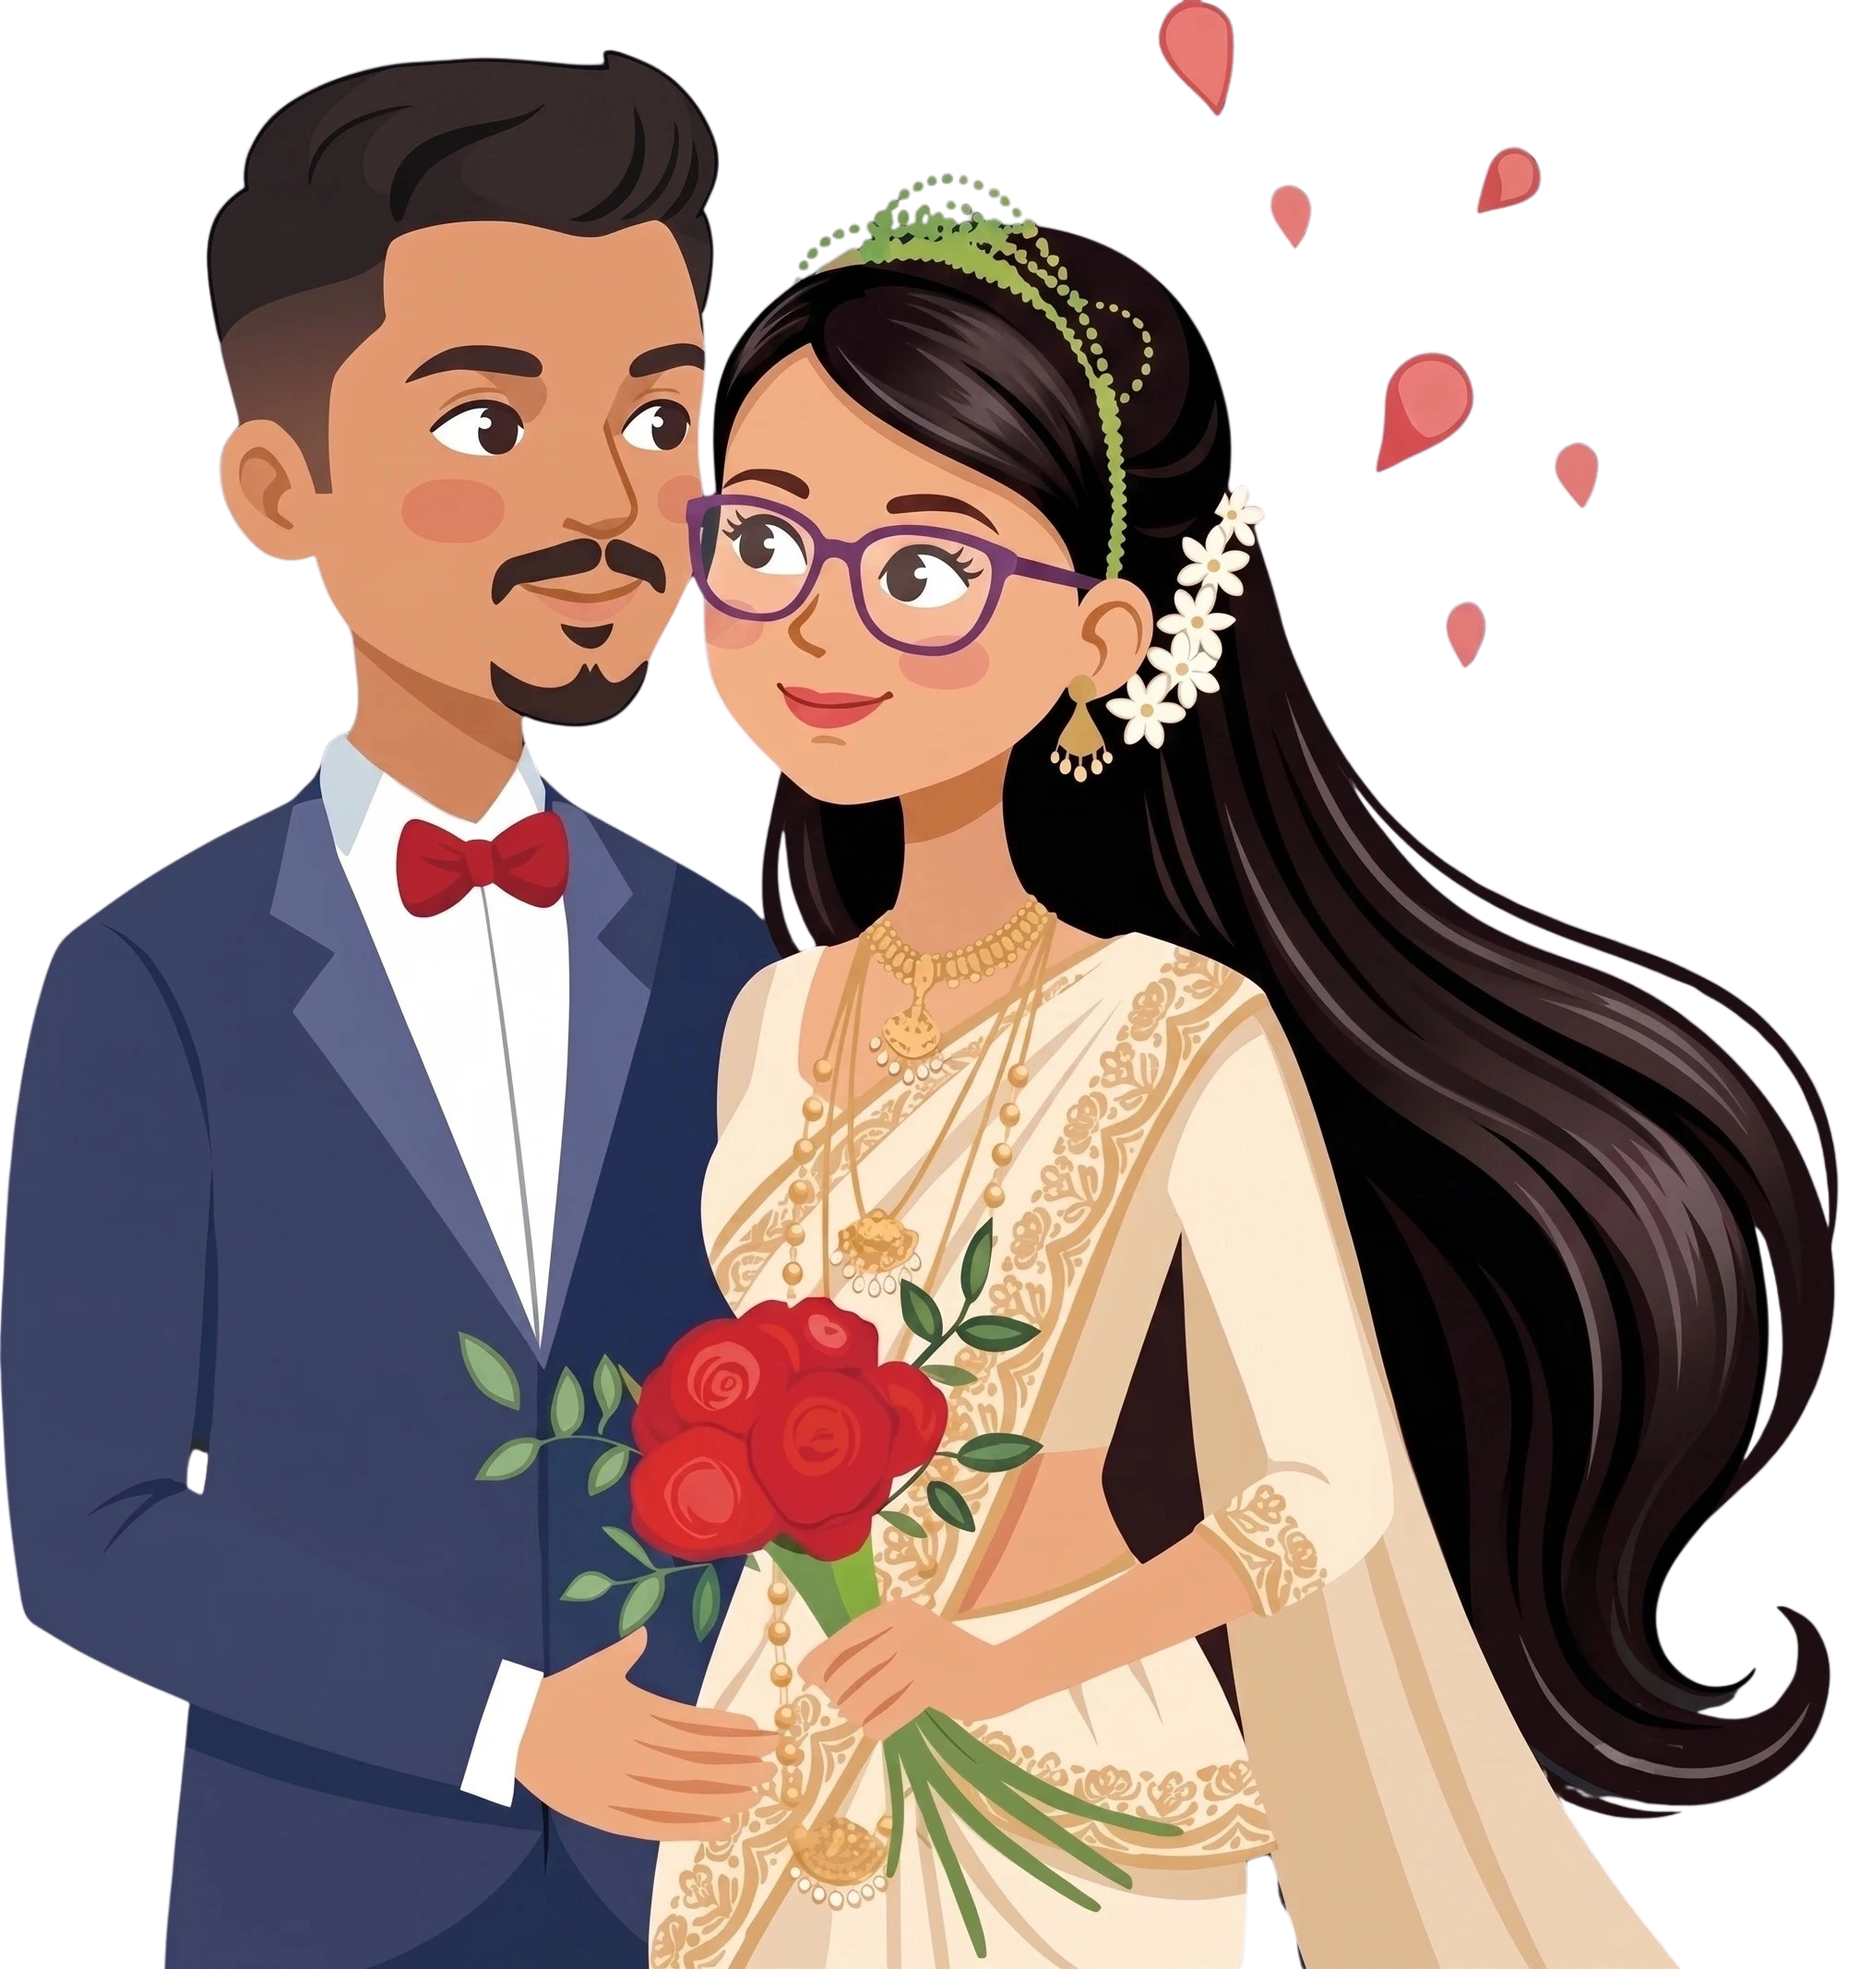
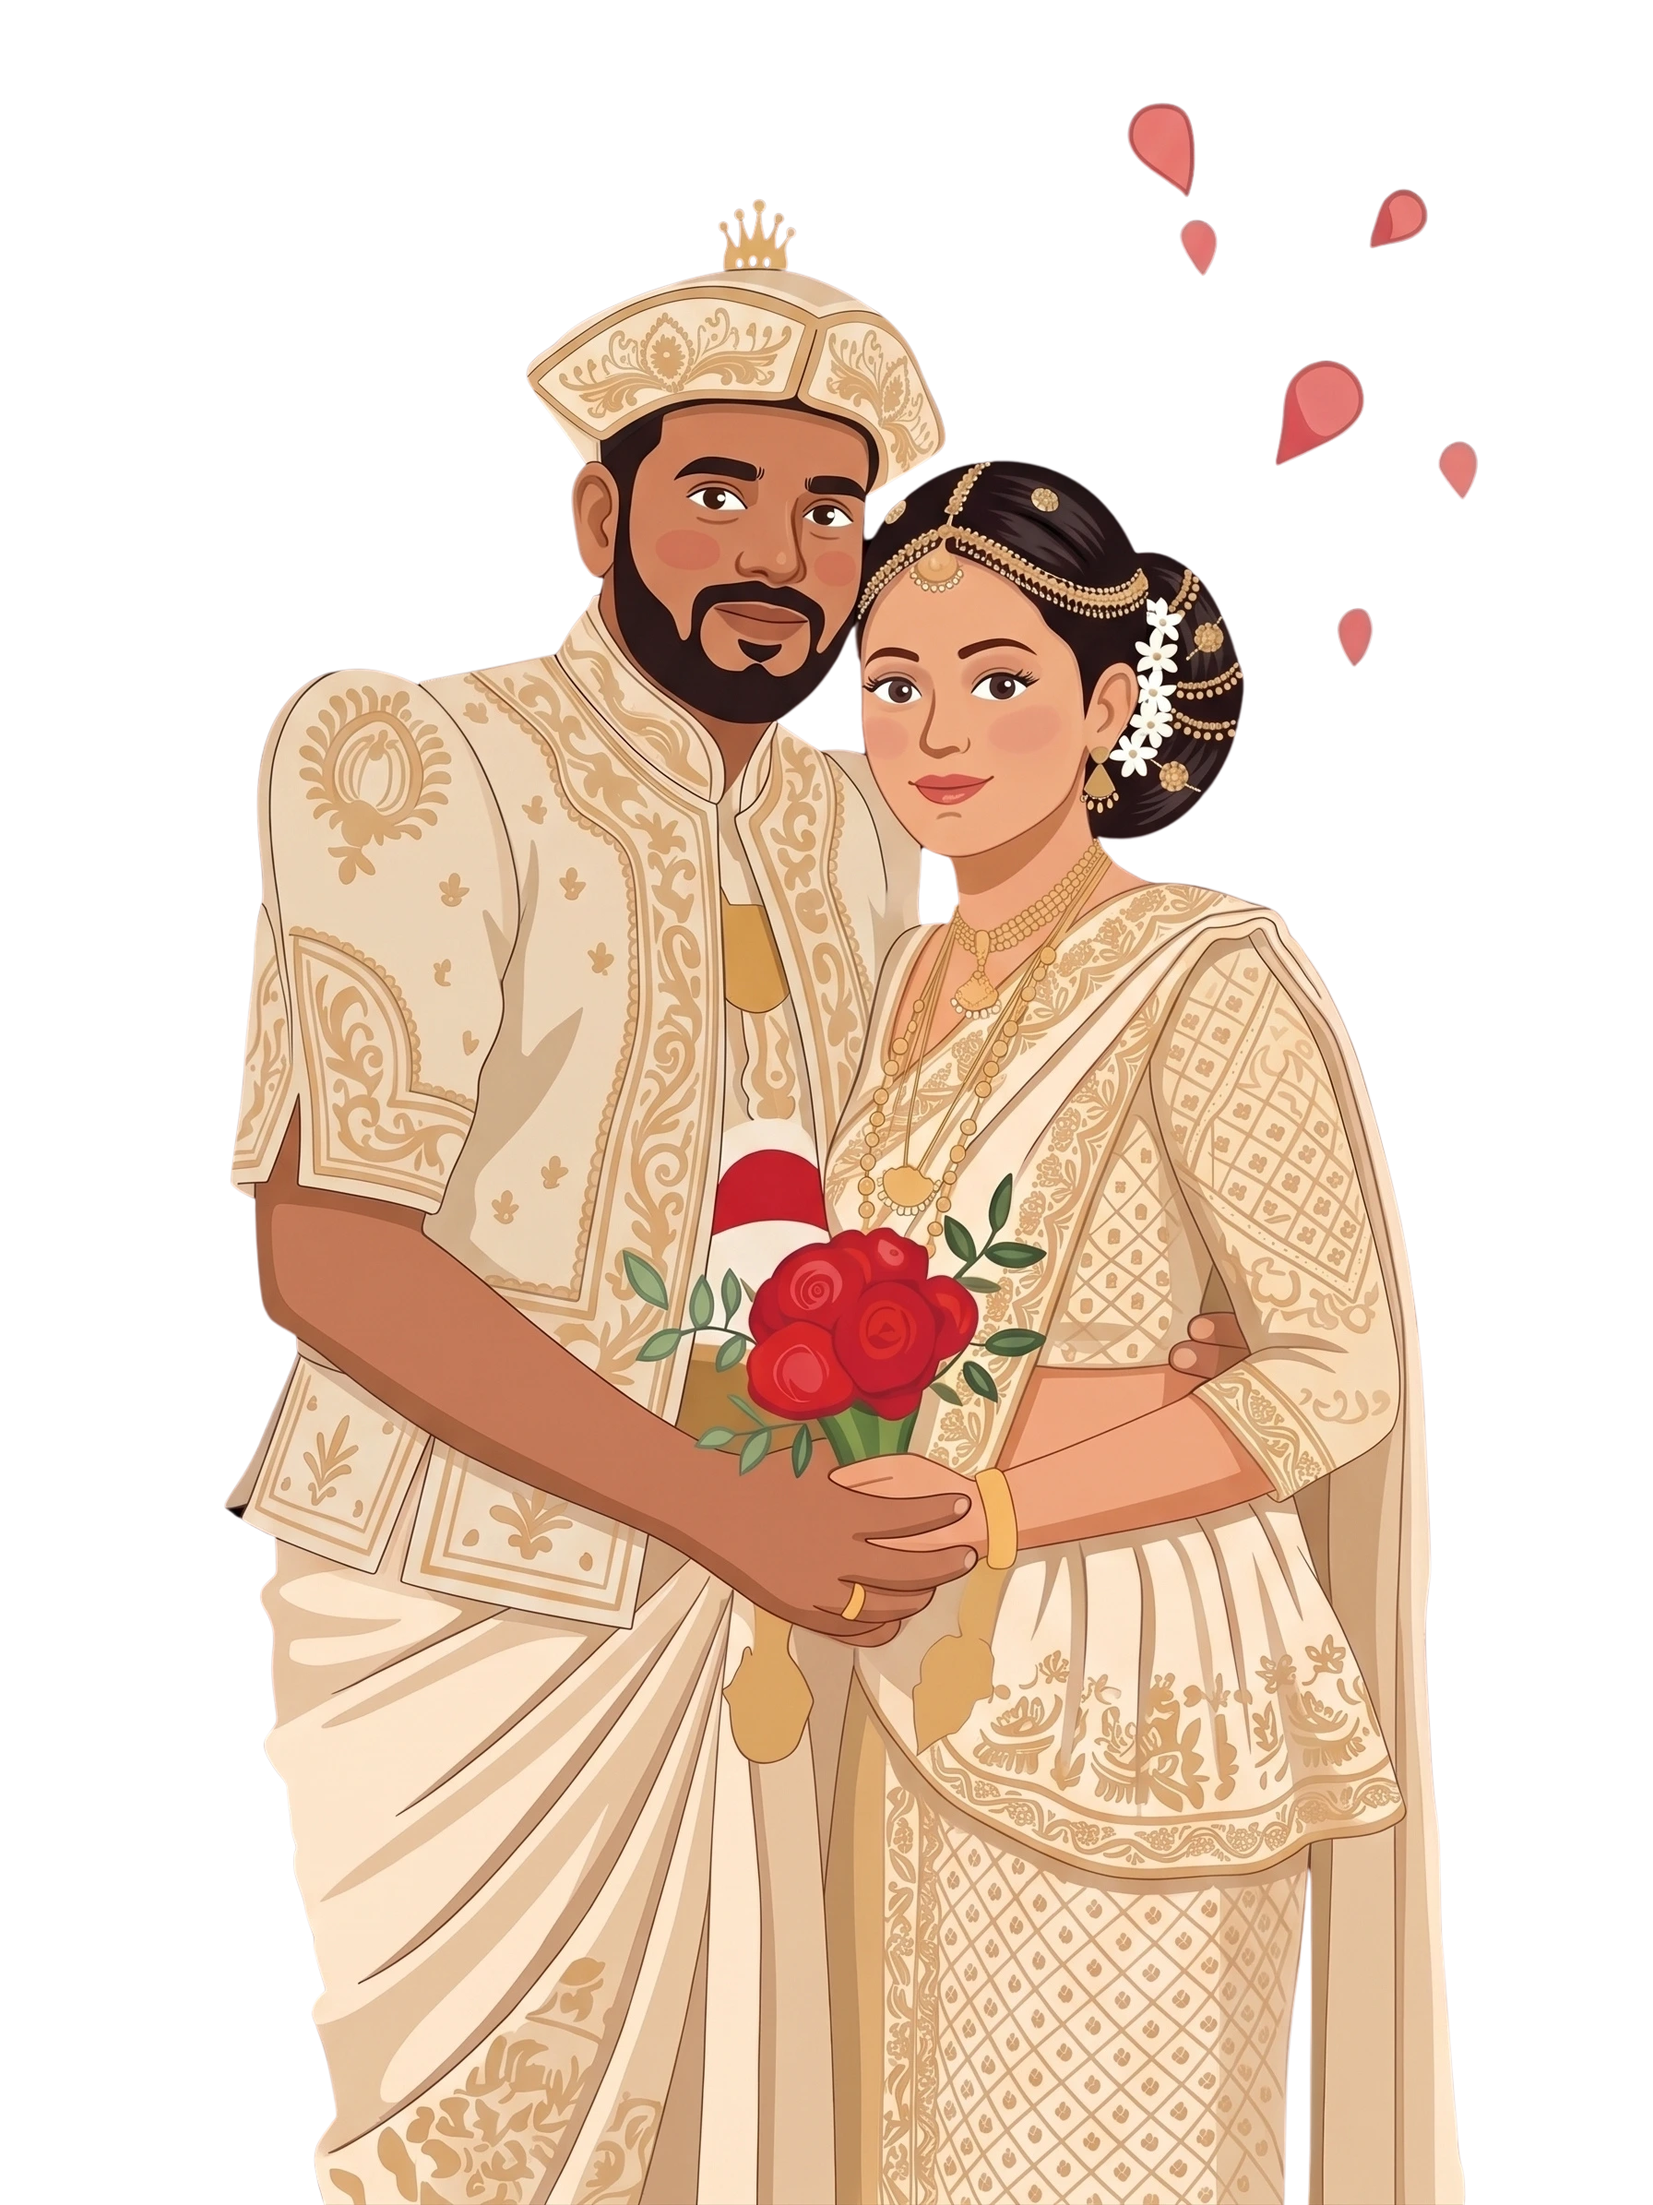
change intro image

diff --git a/src/components/wedding/EnvelopeOpening.tsx b/src/components/wedding/EnvelopeOpening.tsx
@@ -1,9 +1,8 @@
 import { motion, AnimatePresence } from "framer-motion";
-import { useState } from "react";
+import { useState, useEffect } from "react";
 import { wedding } from "@/lib/wedding";
 import { useWedding } from "@/lib/wedding-context";
 import { Sparkles, Ornament } from "./Decorations";
-
 
 interface Props { open: boolean; onComplete: () => void; }
 
@@ -11,6 +10,17 @@ interface Props { open: boolean; onComplete: () => void; }
 export const EnvelopeOpening = ({ open, onComplete }: Props) => {
   const { lang, setLang } = useWedding();
   const [opening, setOpening] = useState(false);
+  const [isMobile, setIsMobile] = useState(false);
+
+  // Screen size එක පරීක්ෂා කිරීම
+  useEffect(() => {
+    const checkMobile = () => {
+      setIsMobile(window.innerWidth < 768);
+    };
+    checkMobile();
+    window.addEventListener("resize", checkMobile);
+    return () => window.removeEventListener("resize", checkMobile);
+  }, []);
 
   const handleOpen = () => {
     if (opening) return;
@@ -19,13 +29,15 @@ export const EnvelopeOpening = ({ open, onComplete }: Props) => {
     setTimeout(onComplete, 2600);
   };
 
+  // Mobile එකේදී කාඩ් එක උඩට යන ප්රමාණය අඩු කර ඇත (-135). Desktop එකේදී -210.
+  const letterMoveY = isMobile ? -135 : -210; 
+
   return (
     <AnimatePresence>
       {open && (
         <motion.div
           initial={{ opacity: 1 }}
           exit={{ opacity: 0, transition: { duration: 0.9, ease: "easeInOut" } }}
-          // 1. මෙතැනට onClick සහ cursor-pointer එකතු කළා (මුළු screen එකම click කළ හැක)
           onClick={handleOpen}
           className="fixed inset-0 z-[100] grid place-items-center bg-gradient-radial overflow-hidden cursor-pointer"
         >
@@ -96,10 +108,10 @@ export const EnvelopeOpening = ({ open, onComplete }: Props) => {
                   }}
                 />
 
-                {/* Letter inside */}
+                {/* Letter inside - මෙතන තමයි y අගය dynamically මාරු වෙන්නේ */}
                 <motion.div
                   initial={{ y: 0, opacity: 0 }}
-                  animate={opening ? { y: -210, opacity: 1 } : { y: 0, opacity: 0 }}
+                  animate={opening ? { y: letterMoveY, opacity: 1 } : { y: 0, opacity: 0 }}
                   transition={{ duration: 1.4, delay: 0.9, ease: [0.65, 0, 0.35, 1] }}
                   className="absolute inset-3 z-10 bg-card rounded-sm shadow-card flex flex-col items-center justify-center text-center px-4 border border-primary/30"
                 >
@@ -194,17 +206,11 @@ export const EnvelopeOpening = ({ open, onComplete }: Props) => {
                   opacity: 1, 
                   y: 0,
                   scale: [1, 1.05, 1],
-                  // boxShadow: [
-                  //   "0 5px 15px rgba(217, 119, 6, 0.2)",
-                  //   "0 0 25px 8px rgba(217, 119, 6, 0.6)",
-                  //   "0 5px 15px rgba(217, 119, 6, 0.2)",
-                  // ]
                 }}
                 transition={{ 
                   opacity: { delay: 0.8, duration: 0.5 },
                   y: { delay: 0.8, duration: 0.5 },
                   scale: { delay: 1.3, repeat: Infinity, duration: 2, ease: "easeInOut" },
-                  // boxShadow: { delay: 1.3, repeat: Infinity, duration: 2, ease: "easeInOut" }
                 }}
                 onClick={(e) => {
                   e.stopPropagation(); // Prevent duplicate trigger from parent click

diff --git a/src/components/wedding/InvitationCard.tsx b/src/components/wedding/InvitationCard.tsx
@@ -4,7 +4,7 @@ import { FaMapMarkerAlt } from "react-icons/fa";
 import { wedding } from "@/lib/wedding";
 import { useWedding } from "@/lib/wedding-context";
 import { Ornament, Sparkles } from "./Decorations";
-import swanImg from "@/assets/swam.png";
+import swanImg from "@/assets/swam.webp";
 import { LotusDivider } from "./Ornaments";
 
 export const InvitationCard = () => {
@@ -86,7 +86,7 @@ export const InvitationCard = () => {
           <p className={`text-foreground/85 text-sm md:text-base mb-2 leading-relaxed relative z-10 max-w-lg mx-auto ${!isEn ? "font-sinhala" : "font-serif italic"}`}>
             {isEn ? wedding.brideParents.en : wedding.brideParents.si}
           </p>
-          <h2 className={`py-2 px-2 text-5xl md:text-7xl text-gold-gradient leading-[1.2] my-1 relative z-10 drop-shadow-sm ${!isEn ? "font-sinhala font-bold" : "font-couple"}`}>
+          <h2 className={`py-2 px-2 text-5xl md:text-7xl text-gold-gradient py-4 leading-[1.2] my-1 relative z-10 drop-shadow-sm ${!isEn ? "font-sinhala font-bold" : "font-couple"}`}>
             {isEn ? wedding.bride.en : wedding.bride.si}
           </h2>
 
@@ -106,15 +106,15 @@ export const InvitationCard = () => {
           <p className={`text-foreground/85 text-sm md:text-base my-4 leading-relaxed relative z-10 max-w-lg mx-auto ${!isEn ? "font-sinhala" : "font-serif italic"}`}>
             {isEn ? wedding.groomParents.en : wedding.groomParents.si}
           </p>
-          <h2 className={`py-2 text-5xl md:text-7xl text-gold-gradient leading-[1.2] my-1 relative z-10 drop-shadow-sm ${!isEn ? "font-sinhala font-bold" : "font-couple"}`}>
+          <h2 className={`py-2 text-5xl md:text-7xl py-4 text-gold-gradient leading-[1.2] my-1 relative z-10 drop-shadow-sm ${!isEn ? "font-sinhala font-bold" : "font-couple"}`}>
             {isEn ? wedding.groom.en : wedding.groom.si}
           </h2>
 
-          <p className={`text-foreground/90 font-medium text-sm md:text-base mt-8 relative z-10 max-w-lg mx-auto ${!isEn ? "font-sinhala" : "font-serif italic"}`}>
+          <p className={`text-foreground/90 font-medium text-sm md:text-base mt-6 relative z-10 max-w-lg mx-auto ${!isEn ? "font-sinhala" : "font-serif italic"}`}>
             {isEn ? wedding.invitationWording.en : wedding.invitationWording.si}
           </p>
 
-          <Ornament className="text-primary w-40 md:w-48 mx-auto mt-8 mb-6 relative z-10 opacity-80" />
+          <Ornament className="text-primary w-40 md:w-48 mx-auto mt-6 mb-6 relative z-10 opacity-80" />
 
           <div className={`text-lg md:text-2xl text-primary-deep font-bold relative z-10 ${!isEn ? "font-sinhala" : "font-display tracking-[0.2em]"}`}>
             {isEn ? wedding.ceremony.date : wedding.ceremony.dateSi}
@@ -134,9 +134,9 @@ export const InvitationCard = () => {
             </div>
           </div>
 
-          <p className={`mt-8 text-foreground/80 max-w-xl mx-auto relative z-10 ${!isEn ? "font-sinhala" : "font-serif italic"}`}>
+          {/* <p className={`mt-8 text-foreground/80 max-w-xl mx-auto relative z-10 ${!isEn ? "font-sinhala" : "font-serif italic"}`}>
             {isEn ? wedding.invitedBy.en : wedding.invitedBy.si}
-          </p>
+          </p> */}
 
           <a
             href={wedding.ceremony.mapsUrl}

diff --git a/src/components/wedding/Hero.tsx b/src/components/wedding/Hero.tsx
@@ -3,7 +3,7 @@ import { useWedding } from "@/lib/wedding-context";
 import { wedding } from "@/lib/wedding";
 import { Ornament, Sparkles } from "./Decorations";
 import heroFloral from "@/assets/hero-floral.png";
-import swanImg from "@/assets/swam.png"; 
+import swanImg from "@/assets/swam.webp"; 
 import { LotusDivider } from "./Ornaments";
 
 interface Props { 
@@ -73,7 +73,7 @@ export const Hero = ({ onOpenInvitation, opened }: Props) => {
           initial={{ opacity: 0, scale: 0.9 }}
           animate={{ opacity: 1, scale: 1 }}
           transition={{ duration: 1, delay: 0.2 }}
-          className={`relative z-10 leading-[1.3] py-1 px-2 text-gold-gradient drop-shadow-sm ${isEn ? "font-couple text-7xl sm:text-8xl md:text-9xl" : "font-sinhala font-bold text-5xl sm:text-6xl md:text-7xl"}`}
+          className={`relative z-10 leading-[1.3] py-3 px-2 text-gold-gradient drop-shadow-sm ${isEn ? "font-couple text-7xl sm:text-8xl md:text-9xl" : "font-sinhala font-bold text-5xl sm:text-6xl md:text-7xl"}`}
         >
           {isEn ? wedding.bride.en : wedding.bride.si}
         </motion.h1>
@@ -92,7 +92,7 @@ export const Hero = ({ onOpenInvitation, opened }: Props) => {
           initial={{ opacity: 0, scale: 0.9 }}
           animate={{ opacity: 1, scale: 1 }}
           transition={{ duration: 1, delay: 0.4 }}
-          className={`relative z-10 leading-[1.3] py-1 px-2 text-gold-gradient drop-shadow-sm ${isEn ? "font-couple text-7xl sm:text-8xl md:text-9xl" : "font-sinhala font-bold text-5xl sm:text-6xl md:text-7xl"}`}
+          className={`relative z-10 leading-[1.3] py-3 px-2 text-gold-gradient drop-shadow-sm ${isEn ? "font-couple text-7xl sm:text-8xl md:text-9xl" : "font-sinhala font-bold text-5xl sm:text-6xl md:text-7xl"}`}
         >
           {isEn ? wedding.groom.en : wedding.groom.si}
         </motion.h1>

diff --git a/src/lib/wedding.ts b/src/lib/wedding.ts
@@ -11,7 +11,7 @@ export const wedding = {
     si: "අශෝක මහතාගේ සහ ලලිතා මහත්මියගේ ආදරණීය පුත්",
   },
   // 15 October 2026, Poruwa Ceremony at 09:57 AM (Sri Lanka time)
-  date: new Date("2026-10-15T09:57:00+05:30"),
+  date: new Date("2026-10-15T09:40:00+05:30"),
   hashtag: "#GayanAndThathsarani2026",
 
   invitationHeader: { en: "Together with our families", si: "අපගේ පවුල්වල අය සමඟ" },
@@ -26,8 +26,8 @@ export const wedding = {
 
   ceremony: {
     title: { en: "The Poruwa Ceremony", si: "පෝරුව මංගල්යය" },
-    time: "09:57 AM",
-    timeSi: "පෙ.ව. 09.57",
+    time: "09:40 AM",
+    timeSi: "පෙ.ව. 09.40",
     date: "Thursday, October 15, 2026",
     dateSi: "2026 ඔක්තෝබර් මස 15 වන බ්රහස්පතින්දා",
     venue: "Hotel Alakamanda",
@@ -39,12 +39,12 @@ export const wedding = {
   },
   reception: {
     title: { en: "Wedding Ceremony", si: "මංගල උත්සවය" },
-    time: "09:00 AM to 04:00 PM",
-    timeSi: "පෙ.ව. 09.00 සිට ප.ව. 04.00 දක්වා",
+    time: "08.30 AM to 03:30 PM",
+    timeSi: "පෙ.ව. 08.30 සිට ප.ව. 03.30 දක්වා",
     date: "Thursday, October 15, 2026",
     dateSi: "2026 ඔක්තෝබර් මස 15 වන බ්රහස්පතින්දා",
     venue: "Hotel Alakamanda",
-    venueSi: "හෝටල් අලකමන්දා",
+    venueSi: "හොටෙල් අලකමන්දා",
     address: "Anuradhapura",
     addressSi: "අනුරාධපුර",
     mapsQuery: "Hotel+Alakamanda+Anuradhapura",

diff --git a/src/components/wedding/IntroScreen.tsx b/src/components/wedding/IntroScreen.tsx
@@ -9,7 +9,7 @@ interface Props {
 }
 
 // Cinematic full-screen intro shown before the envelope.
-export const IntroScreen = ({ onComplete, duration = 4200 }: Props) => {
+export const IntroScreen = ({ onComplete, duration = 3000 }: Props) => {
   const [visible, setVisible] = useState(true);
 
   useEffect(() => {
